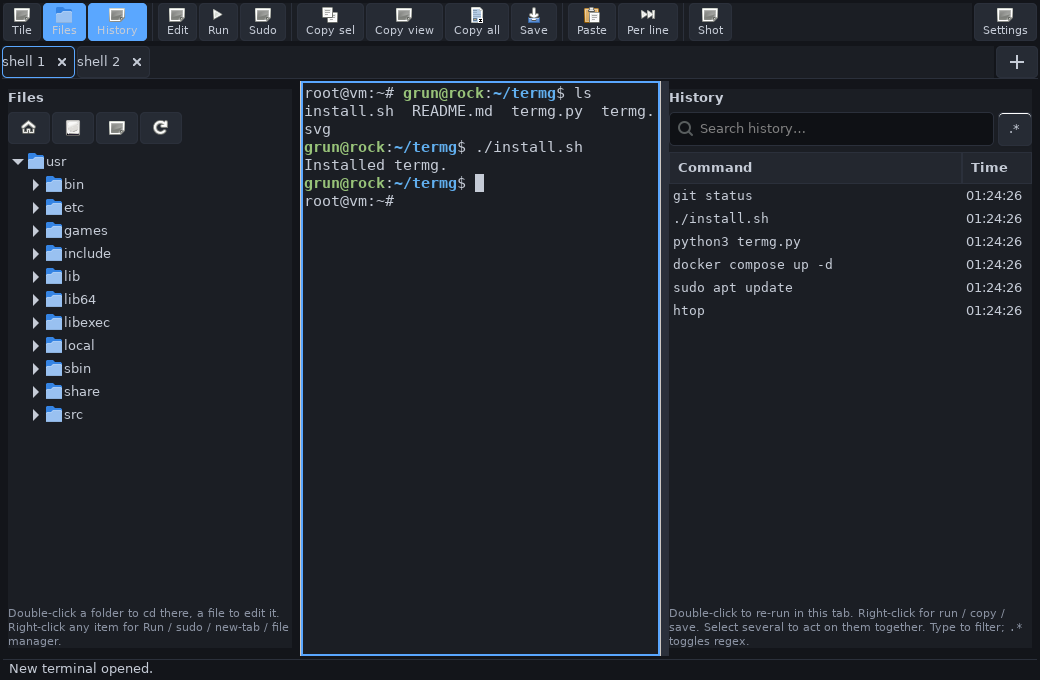
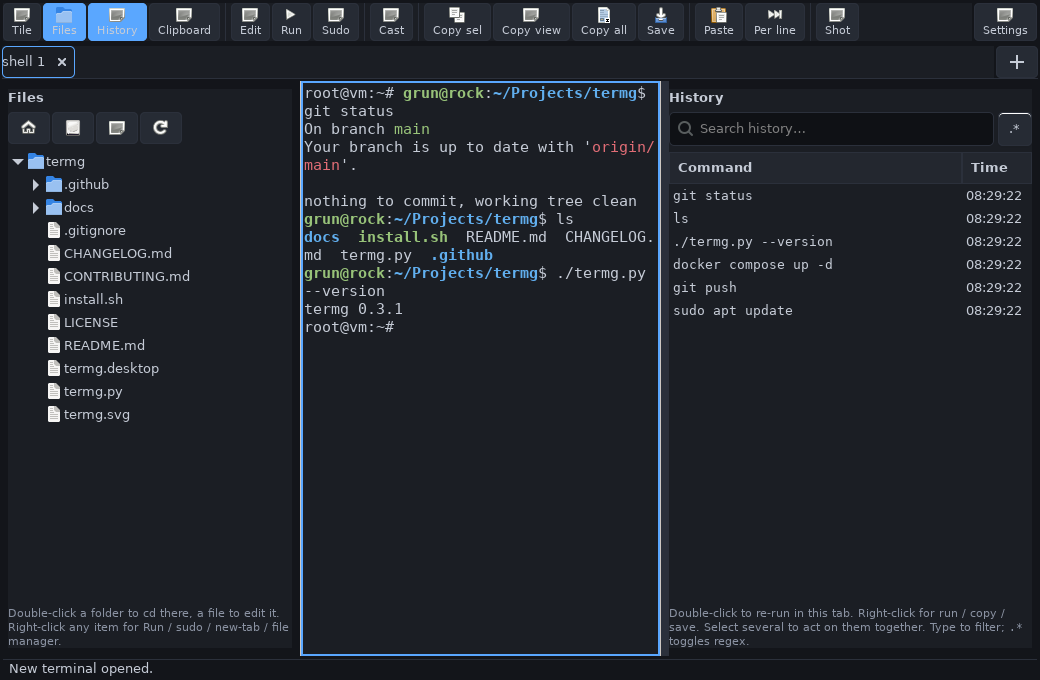
Update README and screenshots for 0.3.1

diff --git a/README.md b/README.md
@@ -21,7 +21,9 @@ every tab is a genuine PTY-backed shell.
   rename, right-click to rename / pin / close. Pinned tabs hide their close button.
 - **File-tree browser** (resizable) — double-click a folder to `cd` the active
   tab there, a file to edit it; right-click for Run, Run with sudo, Run in new
-  tab, Run with sudo in new tab, Edit, Open in file manager, Copy path.
+  tab, Edit, Open in file manager, **Insert path into terminal**, and Copy path.
+  It keeps your open folders when you refresh and **auto-refreshes when a tab
+  changes directory**.
 - **Command history** (resizable, searchable) — filter by substring or `.*`
   regex; double-click to re-run in the current tab, right-click to run in
   this/new tab, copy, or save (`.sh` with shebang + exec bit, or `.txt`).
@@ -43,7 +45,25 @@ every tab is a genuine PTY-backed shell.
 - **Screenshots** — built-in on X11, automatic external-tool fallback on
   Wayland, or your own command.
 
+![Tiled panes with broadcast input and the clipboard panel](docs/tiled.png)
+
+*Tiled view: the same keystrokes broadcast to every pane (orange border), with the clipboard-history panel on the right.*
+
 ## Install
+
+### Debian / Ubuntu / Mint — `.deb`
+
+Download the latest `termg_*_all.deb` from the
+[Releases](https://github.com/johnphdavis-pixel/termg/releases) page, then:
+
+```bash
+sudo apt install ./termg_0.3.1_all.deb
+```
+
+This adds `termg` to your applications menu and your PATH (`sudo apt remove termg`
+to uninstall). apt pulls in the dependencies automatically.
+
+### From source — any distro
 
 ```bash
 git clone https://github.com/johnphdavis-pixel/termg.git
@@ -78,11 +98,12 @@ Mint-specific. Install the bindings for your distro:
 
 - **Tile / tab toggle** is top-left; the **＋ new-tab** button is at the end of
   the tab bar. Switch tabs with **Ctrl+Page Up/Down**, new tab **Ctrl+Shift+T**,
-  close **Ctrl+Shift+W**. Zoom font with **Ctrl + / − / 0**.
-- **Toolbar** (each button is labelled): Tile · Files · History ‖ Edit · Run ·
-  Sudo ‖ Copy sel · Copy view · Copy all · Save ‖ Paste · Per line ‖ Shot, with
-  Settings pinned on the right. Edit/Run/Sudo act on the file-tree selection, or
-  ask you to pick a file.
+  close **Ctrl+Shift+W**. Find in scrollback **Ctrl+Shift+F**. Zoom font with
+  **Ctrl + / − / 0**.
+- **Toolbar** (each button is labelled): Tile · Files · History · Clipboard ‖
+  Edit · Run · Sudo ‖ Cast ‖ Copy sel · Copy view · Copy all · Save ‖ Paste ·
+  Per line ‖ Shot, with Settings pinned on the right. Edit/Run/Sudo act on the
+  file-tree selection, or ask you to pick a file.
 - **Settings** (gear) holds the light/dark theme switch, your editor (default
   `nano`, with presets), the hidden-files toggle, and an optional custom
   screenshot command. Settings persist to `~/.config/termg/settings.json`.